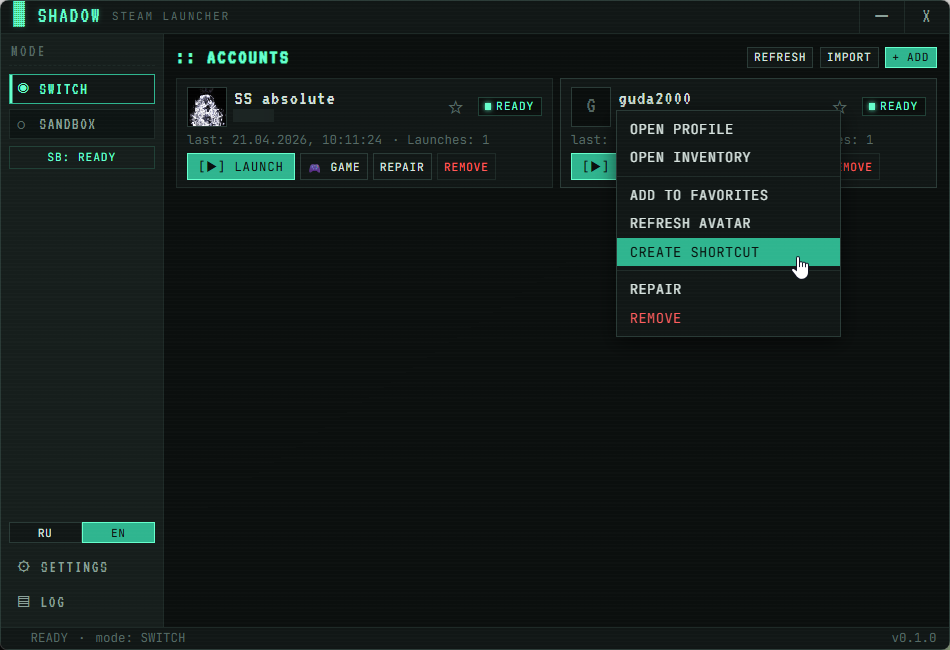
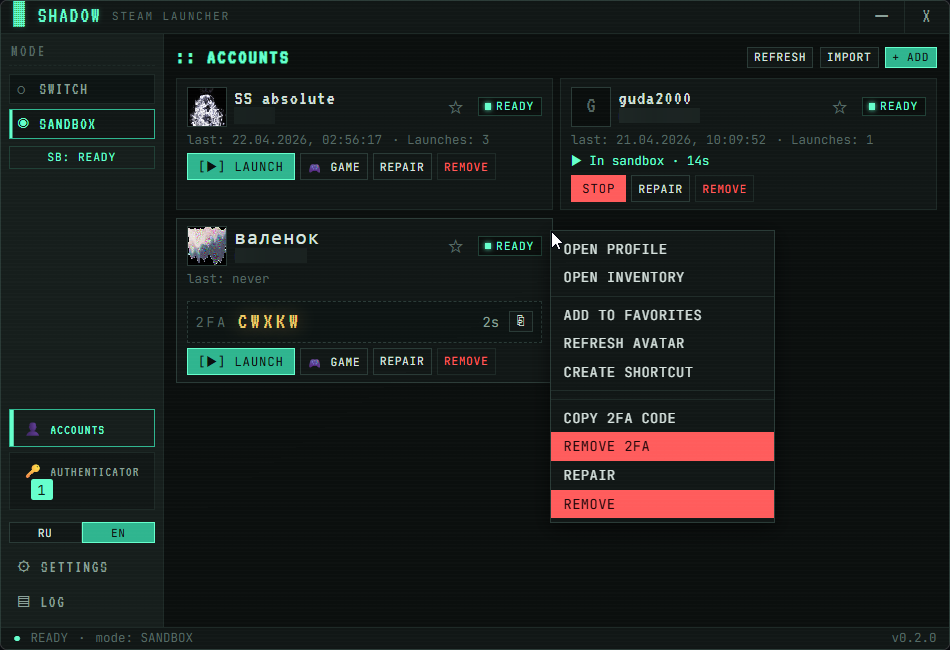
docs: refresh screenshots for v0.2.0 (add SDA + authenticator wizard)

diff --git a/README.md b/README.md
@@ -34,11 +34,15 @@ Steam Desktop Autheticator + Account Switcher + Parrallel Multi Launcher with Ai
 
 <p align="center">
   <img src="docs/screenshots/main_screen.png" alt="Главный экран" width="760"><br>
-  <em>Главный экран — карточки аккаунтов, переключатель режима, статус песочниц.</em>
+  <em>Главный экран — карточки аккаунтов с TOTP-кодами Steam Guard, переключатель Switch/Sandbox.</em>
 </p>
 <p align="center">
-  <img src="docs/screenshots/game_screen.png" alt="Выбор игры" width="760"><br>
-  <em>Выбор игры — обложки из локального кэша, запуск в один клик.</em>
+  <img src="docs/screenshots/sda_screen.png" alt="Steam Desktop Authenticator" width="760"><br>
+  <em>Раздел Authenticator — коды, подтверждения трейдов и маркета, авто-confirm, мастер-пароль.</em>
+</p>
+<p align="center">
+  <img src="docs/screenshots/authprocess_screen.png" alt="Привязка Steam Guard" width="760"><br>
+  <em>Мастер привязки нового Steam Guard — диагностика состояния аккаунта и подсказка по ходу.</em>
 </p>
 <p align="center">
   <img src="docs/screenshots/settings_screen.png" alt="Настройки" width="760"><br>
